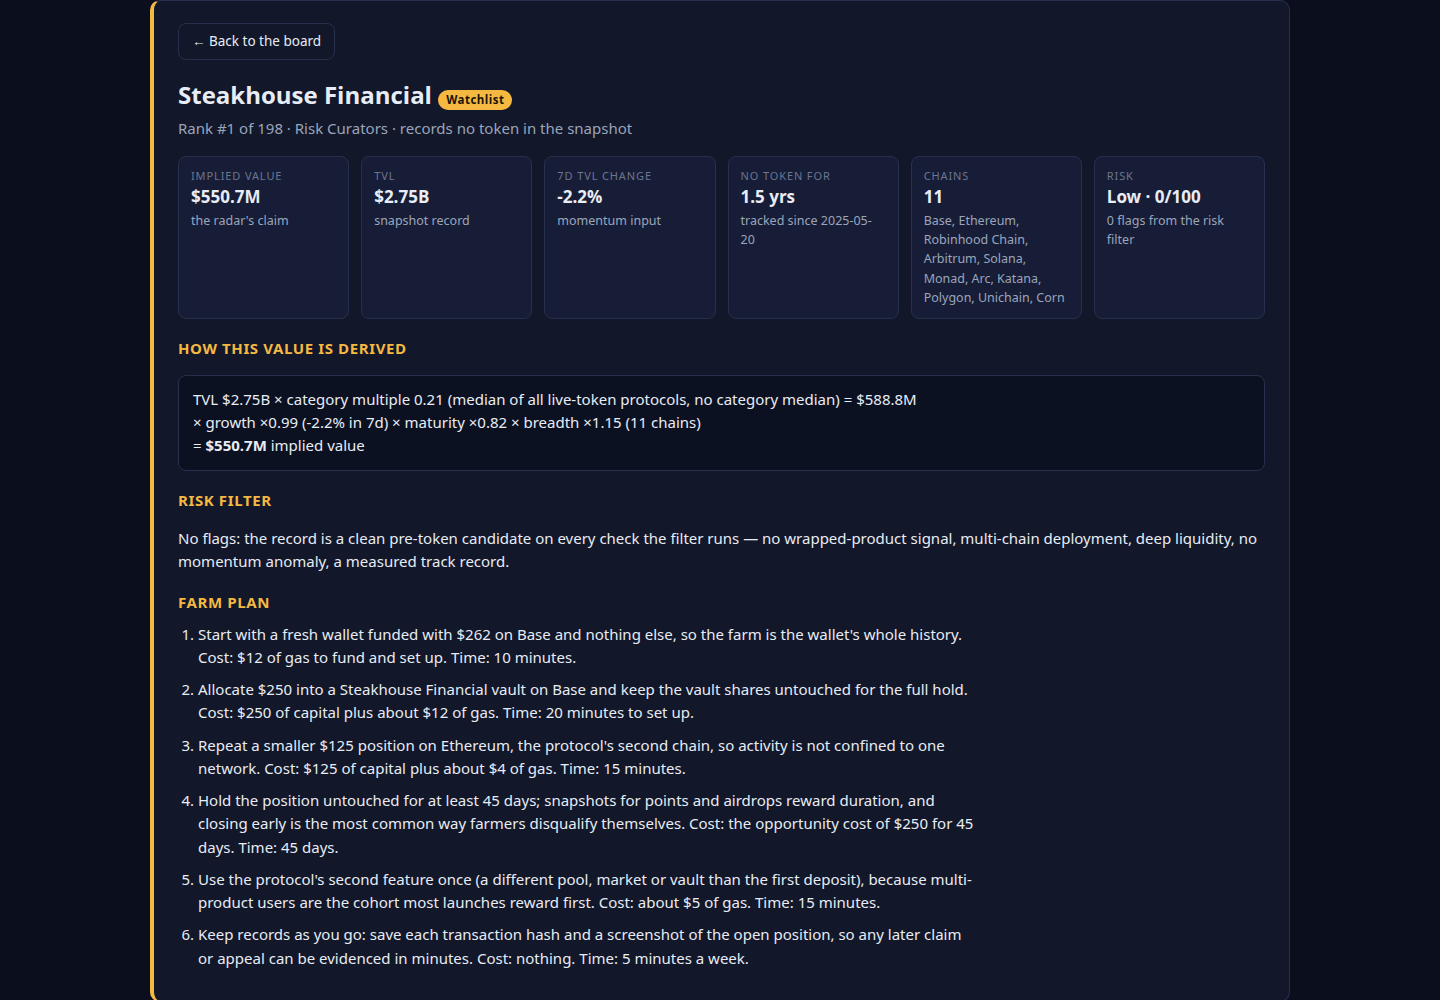
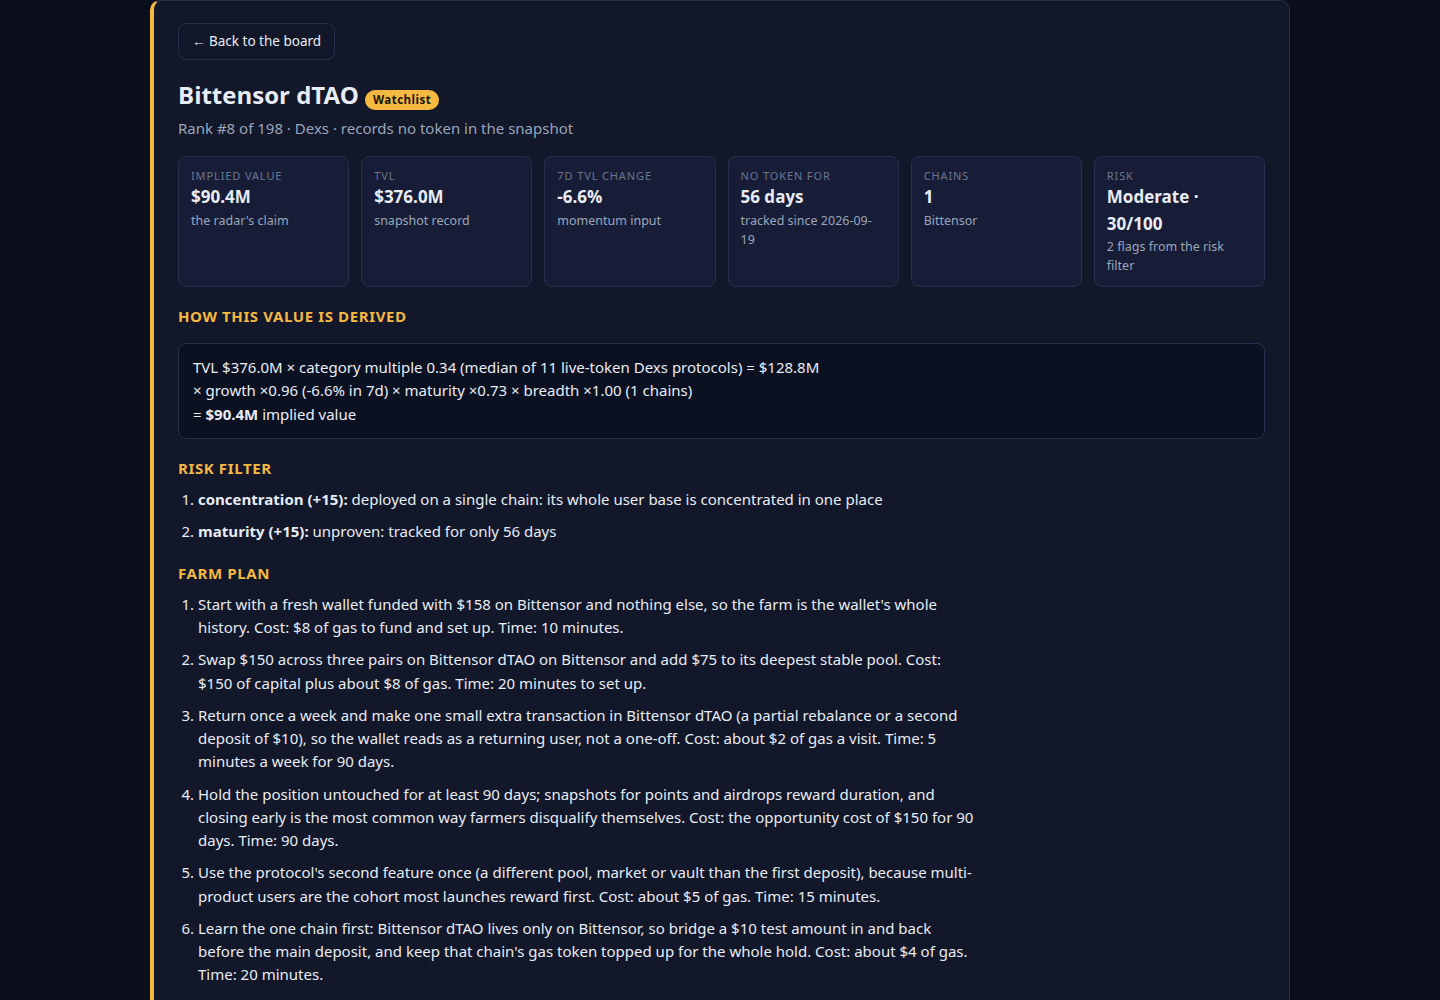
V3 (comp-calibrated-3): cap momentum credit at the risk filter's +60% parabolic line; unverified-momentum flag; seventh farm-plan step answering each protocol's own risk record; dashboard risk-tier filter and per-$1-TVL column; refreshed screenshots; CHANGELOG

diff --git a/lib/model.ts b/lib/model.ts
@@ -201,7 +201,11 @@ export function calibrate(snapshot: Snapshot): Calibration {
 export const WEIGHTS = {
   growth_weight: 0.6,
   growth_floor_pct: -50,
-  growth_cap_pct: 100,
+  // Momentum credit stops at +60%: the same line where the risk filter
+  // starts calling a rise parabolic. Past it the model pays no extra
+  // premium for a spike the filter flags as a pace that rarely holds
+  // (the snapshot holds a +4,448% week, a listing artifact, not demand).
+  growth_cap_pct: 60,
   maturity_base: 0.72,
   maturity_span: 0.28,
   maturity_days: 1460,
@@ -211,7 +215,7 @@ export const WEIGHTS = {
 } as const;
 
 /** The model's version label, printed on the dashboard. */
-export const MODEL_VERSION = 'comp-calibrated-2';
+export const MODEL_VERSION = 'comp-calibrated-3';
 
 /** How many board rows the radar carries: the watchlist plus the early field. */
 export const BOARD_ROWS = 320;
@@ -315,11 +319,34 @@ function coreAction(p: ProtocolRecord, capital: number, chain: string): string {
 }
 
 /**
- * The farm plan for one protocol: six concrete steps, each carrying its
- * cost and its time, derived from the protocol's own category, chains,
- * TVL and age. Nothing here names a protocol the snapshot does not.
+ * The plan's risk step: the one instruction that answers this protocol's
+ * own risk record, chosen in the order the filter weighs them — an
+ * outflow first, then a parabolic spike, thin liquidity, a single-chain
+ * deployment — and a monthly re-check of the record for a clean row.
+ * Every figure in it is the protocol's own, read from the snapshot.
  */
-export function farmPlan(p: ProtocolRecord, ageDays: number | null): string[] {
+function riskStepFor(p: ProtocolRecord, risk: RiskAssessment, capital: number, gas: number): string {
+  const flagged = (id: string, points?: number) =>
+    risk.flags.some((f) => f.id === id && (points === undefined || f.points === points));
+  const change = p.change_7d;
+  if (flagged('momentum') && change !== null && change <= -25)
+    return `Treat the outflow as the first fact: ${p.name}'s TVL fell ${Math.abs(change).toFixed(1)}% in the seven days to the snapshot, so commit only half the capital now and add the rest only after two weeks in which TVL has stopped falling. Cost: nothing beyond patience. Time: 10 minutes a week for two weeks.`;
+  if (flagged('momentum') && change !== null && change >= 60)
+    return `Scale in against the spike: ${p.name}'s TVL rose ${change.toFixed(1)}% in seven days, a pace that rarely holds, so split the deposit into two tranches a week apart and skip the second if TVL has fallen back by more than a fifth by then. Cost: about ${money(gas)} of extra gas. Time: 15 minutes, twice.`;
+  if (flagged('liquidity', 20))
+    return `Size for thin liquidity: with only ${money(p.tvl_usd)} of TVL behind it, keep the position at the ${money(capital)} planned here and use the deepest pool, so an exit never has to move the market against you. Cost: nothing. Time: 5 minutes checking pool depth first.`;
+  if (flagged('concentration'))
+    return `Learn the one chain first: ${p.name} lives only on ${p.chains[0] ?? 'one chain'}, so bridge a ${money(10)} test amount in and back before the main deposit, and keep that chain's gas token topped up for the whole hold. Cost: about ${money(4)} of gas. Time: 20 minutes.`;
+  return `Re-check the record monthly: confirm ${p.name} still records no token and its TVL has not fallen by more than a quarter from ${money(p.tvl_usd)}; if either has changed, close and reassess rather than farming on habit. Cost: nothing. Time: 10 minutes a month.`;
+}
+
+/**
+ * The farm plan for one protocol: seven concrete steps, each carrying
+ * its cost and its time, derived from the protocol's own category,
+ * chains, TVL, age and risk record. Nothing here names a protocol the
+ * snapshot does not.
+ */
+export function farmPlan(p: ProtocolRecord, ageDays: number | null, risk: RiskAssessment): string[] {
   const chain = p.chains[0] ?? 'its main chain';
   const capital = capitalFor(p.tvl_usd);
   const hold = holdDaysFor(ageDays);
@@ -341,6 +368,7 @@ export function farmPlan(p: ProtocolRecord, ageDays: number | null): string[] {
   steps.push(
     `Hold the position untouched for at least ${hold} days; snapshots for points and airdrops reward duration, and closing early is the most common way farmers disqualify themselves. Cost: the opportunity cost of ${money(capital)} for ${hold} days. Time: ${hold} days.`,
     `Use the protocol's second feature once (a different pool, market or vault than the first deposit), because multi-product users are the cohort most launches reward first. Cost: about ${money(5)} of gas. Time: 15 minutes.`,
+    riskStepFor(p, risk, capital, gas),
     `Keep records as you go: save each transaction hash and a screenshot of the open position, so any later claim or appeal can be evidenced in minutes. Cost: nothing. Time: 5 minutes a week.`,
   );
   return steps.map((s) => (s.length > 600 ? `${s.slice(0, 596)}...` : s));
@@ -390,30 +418,33 @@ export function buildBoard(snapshot: Snapshot): BoardRow[] {
   for (const s of early) chosen.set(s.protocol.slug, s.protocol);
   const scored = [...chosen.values()].map((p) => scoreProtocol(p, snapshot.as_of, calibration));
   scored.sort((a, b) => b.implied - a.implied || (a.protocol.slug < b.protocol.slug ? -1 : 1));
-  return scored.map((s, i) => ({
-    rank: i + 1,
-    slug: s.protocol.slug,
-    name: s.protocol.name,
-    category: s.protocol.category,
-    chains: s.protocol.chains,
-    tvl_usd: s.protocol.tvl_usd,
-    change_7d: s.protocol.change_7d,
-    listed_at: s.protocol.listed_at,
-    age_days: s.ageDays,
-    token_status: 'pre-token' as const,
-    on_watchlist: watchlist.has(s.protocol.slug),
-    implied_value_usd: s.implied,
-    model: {
-      base_multiple: round4(s.baseMultiple),
-      comps: s.comps,
-      growth_pct: s.growthPct,
-      growth_multiplier: round4(s.growthMult),
-      maturity_multiplier: round4(s.maturityMult),
-      breadth_multiplier: round4(s.breadthMult),
-    },
-    risk: assessRisk(s.protocol, snapshot.as_of),
-    farm_steps: farmPlan(s.protocol, s.ageDays),
-  }));
+  return scored.map((s, i) => {
+    const risk = assessRisk(s.protocol, snapshot.as_of);
+    return {
+      rank: i + 1,
+      slug: s.protocol.slug,
+      name: s.protocol.name,
+      category: s.protocol.category,
+      chains: s.protocol.chains,
+      tvl_usd: s.protocol.tvl_usd,
+      change_7d: s.protocol.change_7d,
+      listed_at: s.protocol.listed_at,
+      age_days: s.ageDays,
+      token_status: 'pre-token' as const,
+      on_watchlist: watchlist.has(s.protocol.slug),
+      implied_value_usd: s.implied,
+      model: {
+        base_multiple: round4(s.baseMultiple),
+        comps: s.comps,
+        growth_pct: s.growthPct,
+        growth_multiplier: round4(s.growthMult),
+        maturity_multiplier: round4(s.maturityMult),
+        breadth_multiplier: round4(s.breadthMult),
+      },
+      risk,
+      farm_steps: farmPlan(s.protocol, s.ageDays, risk),
+    };
+  });
 }
 
 /** The first gate problem with a board, or null when the board is valid. */

diff --git a/dashboard/app.js b/dashboard/app.js
@@ -45,7 +45,9 @@
   var catEl = document.getElementById('category');
   var chainEl = document.getElementById('chain');
   var scopeEl = document.getElementById('scope');
+  var riskEl = document.getElementById('risk');
   var sortEl = document.getElementById('sort');
+  var TIER_ORDER = { Low: 0, Moderate: 1, Elevated: 2, High: 3 };
 
   var categories = {};
   var chains = {};
@@ -67,6 +69,7 @@
       if (chainEl.value && r.chains.indexOf(chainEl.value) === -1) return false;
       if (scopeEl.value === 'watchlist' && !r.on_watchlist) return false;
       if (scopeEl.value === 'early' && r.on_watchlist) return false;
+      if (riskEl.value && TIER_ORDER[r.risk.tier] > TIER_ORDER[riskEl.value]) return false;
       if (q && r.name.toLowerCase().indexOf(q) === -1 && r.slug.indexOf(q) === -1) return false;
       return true;
     });
@@ -85,6 +88,7 @@
     countEl.textContent = 'Showing ' + rows.length + ' of ' + D.rows.length + ' ranked protocols. Select a row for its detail and farm plan.';
     var html = '<table><thead><tr>' +
       '<th>#</th><th>Protocol</th><th>Status</th><th>Risk</th><th class="num">Implied value</th>' +
+      '<th class="num hide-sm">Per $1 TVL</th>' +
       '<th class="num">TVL</th><th class="num">7d</th><th class="hide-sm">Category</th>' +
       '<th class="hide-sm">Chains</th><th class="num hide-sm">No token for</th></tr></thead><tbody>';
     rows.forEach(function (r) {
@@ -94,6 +98,7 @@
         '<td><span class="badge ' + (r.on_watchlist ? 'watch' : 'early') + '">' + (r.on_watchlist ? 'Watchlist' : 'Early radar') + '</span></td>' +
         '<td><span class="badge risk-' + r.risk.tier.toLowerCase() + '">' + r.risk.tier + ' ' + r.risk.score + '</span></td>' +
         '<td class="num"><strong>' + money(r.implied_value_usd) + '</strong></td>' +
+        '<td class="num hide-sm">×' + (r.tvl_usd > 0 ? (r.implied_value_usd / r.tvl_usd).toFixed(2) : '—') + '</td>' +
         '<td class="num">' + money(r.tvl_usd) + '</td>' +
         '<td class="num ' + (r.change_7d > 0 ? 'up' : r.change_7d < 0 ? 'down' : '') + '">' + pct(r.change_7d) + '</td>' +
         '<td class="hide-sm">' + esc(r.category || '—') + '</td>' +
@@ -157,7 +162,7 @@
   document.getElementById('method').innerHTML =
     '<h2>How the radar prices a launch that has not happened</h2>' +
     '<p>Start from the market, not from a guess. In this same snapshot, ' + 'the protocols whose token already trades show what a dollar of TVL is worth in each category: the radar takes the median market-cap/TVL ratio per category (global median ' + D.global_multiple.toFixed(2) + '×) and applies it to each pre-token protocol\'s TVL. It then adjusts for momentum (the 7-day TVL change, weighted ×' + D.weights.growth_weight + ', clamped between ' + D.weights.growth_floor_pct + '% and +' + D.weights.growth_cap_pct + '%), for maturity (a protocol that has run longer with no token earns up to ×' + (D.weights.maturity_base + D.weights.maturity_span).toFixed(2) + '), and for breadth (each extra chain adds ' + (D.weights.breadth_per_chain * 100) + '%). Protocols whose token already trades are never ranked: they are listed below at the market\'s own value. Model version ' + esc(D.model_version) + '.</p>' +
-    '<p>Every candidate also passes a risk filter, scored 0 to 100 from the record itself: a wrapped-product or authority signal (+35), a versioned pool (+25), thin liquidity under $10M TVL (+20), an outflow shock of −25% in a week (+20), single-chain concentration (+15), an unproven 90-day track record (+15), a parabolic +60% spike (+10) and shallow liquidity (+10). This board spreads ' + D.risk_tiers.Low + ' Low, ' + D.risk_tiers.Moderate + ' Moderate, ' + D.risk_tiers.Elevated + ' Elevated and ' + D.risk_tiers.High + ' High; the priority watch above is where high implied value meets Low or Moderate risk.</p>' +
+    '<p>Every candidate also passes a risk filter, scored 0 to 100 from the record itself: a wrapped-product or authority signal (+35), a versioned pool (+25), thin liquidity under $10M TVL (+20), an outflow shock of −25% in a week (+20), single-chain concentration (+15), an unproven 90-day track record (+15), a parabolic +60% spike (+10), no seven-day figure on record (+10, unverified momentum) and shallow liquidity (+10). This board spreads ' + D.risk_tiers.Low + ' Low, ' + D.risk_tiers.Moderate + ' Moderate, ' + D.risk_tiers.Elevated + ' Elevated and ' + D.risk_tiers.High + ' High; the priority watch above is where high implied value meets Low or Moderate risk.</p>' +
     '<table><thead><tr><th>Category</th><th class="num">Live comps</th><th class="num">Median value per $1 TVL</th></tr></thead><tbody>' + calibRows + '</tbody></table>';
 
   // --- live tokens ----------------------------------------------------
@@ -184,7 +189,7 @@
     }
   }
 
-  [qEl, catEl, chainEl, scopeEl, sortEl].forEach(function (el) {
+  [qEl, catEl, chainEl, scopeEl, riskEl, sortEl].forEach(function (el) {
     el.addEventListener('input', renderBoard);
     el.addEventListener('change', renderBoard);
   });

diff --git a/lib/risk.ts b/lib/risk.ts
@@ -19,7 +19,9 @@
 //   volume anomalies       -> the 7-day TVL change: a fall of 25% or
 //                             more is an outflow shock; a rise of 60%
 //                             or more in a week is a parabolic spike
-//                             that rarely holds.
+//                             that rarely holds; no change on record
+//                             is unverified momentum, flagged, never
+//                             scored as a flat week.
 //
 // Each flag adds fixed points; the total is the risk score, 0..100,
 // and the tier names the band it falls in. The same record always
@@ -85,9 +87,13 @@ export function assessRisk(p: ProtocolRecord, asOf: string): RiskAssessment {
   } else if (p.tvl_usd < 50_000_000) {
     add('liquidity', 10, 'shallow liquidity: under $50M of TVL behind the implied value');
   }
-  // Momentum anomalies in the 7-day TVL change.
-  const change = p.change_7d ?? 0;
-  if (change <= -25) {
+  // Momentum anomalies in the 7-day TVL change. An unreported change
+  // is not a flat week: the record carries no momentum to verify, and
+  // the filter says so instead of scoring the gap as calm.
+  const change = p.change_7d;
+  if (change === null) {
+    add('momentum', 10, 'no seven-day change on record: the momentum behind this candidate cannot be verified');
+  } else if (change <= -25) {
     add('momentum', 20, `outflow shock: TVL fell ${Math.abs(change).toFixed(1)}% in seven days`);
   } else if (change >= 60) {
     add('momentum', 10, `parabolic spike: TVL rose ${change.toFixed(1)}% in seven days, a pace that rarely holds`);

diff --git a/main.ts b/main.ts
@@ -81,12 +81,17 @@ export function summaryLine(data: RadarData): string {
   const topText = top === undefined ? 'no rows' : `${top.name} $${(top.implied_value_usd / 1e6).toFixed(1)}M`;
   const head =
     `Token Launch Radar ${data.as_of}: ${data.counts.board} pre-token protocols ranked, ` +
-    `${data.counts.watchlist} watchlist covered; top ${topText}`;
-  // Prefer the full line with the model named; drop segments whole
-  // rather than cutting a word in half, and only then trim to a word
-  // boundary.
-  let line = `${head}; model ${data.model_version}.`;
-  if (line.length > 140) line = `${head}.`;
+    `${data.counts.watchlist} watchlist covered`;
+  // Prefer the full line: risk scoring and the model both named. Drop
+  // whole segments in that order rather than cutting a word in half,
+  // and only then trim to a word boundary.
+  const candidates = [
+    `${head}, all risk-scored; top ${topText}; model ${data.model_version}.`,
+    `${head}, all risk-scored; top ${topText}.`,
+    `${head}; top ${topText}; model ${data.model_version}.`,
+    `${head}; top ${topText}.`,
+  ];
+  let line = candidates.find((c) => c.length <= 140) ?? candidates[candidates.length - 1]!;
   if (line.length > 140) {
     const cut = line.slice(0, 137);
     line = `${cut.slice(0, cut.lastIndexOf(' '))}...`;

diff --git a/dashboard/index.html b/dashboard/index.html
@@ -32,6 +32,15 @@
         <option value="early">Early radar only</option>
       </select>
     </label>
+    <label class="control">Risk at most
+      <select id="risk">
+        <option value="">Any risk tier</option>
+        <option value="Low">Low</option>
+        <option value="Moderate">Moderate</option>
+        <option value="Elevated">Elevated</option>
+        <option value="High">High</option>
+      </select>
+    </label>
     <label class="control">Sort by
       <select id="sort">
         <option value="rank">Rank (implied value)</option>

diff --git a/README.md b/README.md
@@ -4,7 +4,7 @@
 [![rank](https://make.fun/badge/token-radar-01/Mochiku444/makefun-token-launch-radar/rank.svg)](https://make.fun/bounty/token-radar-01/leaderboard?utm_source=github&utm_medium=readme&utm_campaign=token-radar-01)
 [![reward](https://make.fun/badge/token-radar-01/Mochiku444/makefun-token-launch-radar/reward.svg)](https://make.fun/bounty/token-radar-01?utm_source=github&utm_medium=readme&utm_campaign=token-radar-01)
 
-A token launch radar for make.fun's token-radar-01 bounty. The program (`main.ts`, Node 22, standard library only) reads the sealed DefiLlama snapshot of 758 protocols and ranks 198 that record no token — all 40 on the house watchlist plus 158 early finds — by an implied token value. The model is calibrated on the snapshot itself: the median market-cap/TVL ratio of each category's live-token protocols, adjusted for 7-day TVL momentum, for how long each protocol has run with no token, and for chain breadth. Wrapped, staked and bridged products of tokens that already trade (the WBTC trap) are screened out with the same rules the house watchlist uses. Every row carries a six-step farm plan with costs and times, and the static dashboard in `dashboard/` renders the board with search, category/chain filters, four sort orders, a per-protocol detail view showing the full value derivation, the calibration table, and the live-token set shown apart at market value.
+A token launch radar for make.fun's token-radar-01 bounty. The program (`main.ts`, Node 22, standard library only) reads the sealed DefiLlama snapshot of 758 protocols and ranks 198 that record no token — all 40 on the house watchlist plus 158 early finds — by an implied token value. The model is calibrated on the snapshot itself: the median market-cap/TVL ratio of each category's live-token protocols, adjusted for 7-day TVL momentum, for how long each protocol has run with no token, and for chain breadth. Wrapped, staked and bridged products of tokens that already trade (the WBTC trap) are screened out with the same rules the house watchlist uses. Every row carries a seven-step farm plan with costs and times — the seventh step answers the protocol's own risk record — and the static dashboard in `dashboard/` renders the board with search, category/chain/risk-tier filters, five sort orders, a per-protocol detail view showing the full value derivation, the calibration table, and the live-token set shown apart at market value.
 
 ## Run it
 
@@ -23,6 +23,7 @@ This entry was built by an AI agent in the open, and its make.fun submission car
 5. `lib/risk.ts` — the risk filter: authority (wrapped-product proxy), concentration, liquidity and momentum-anomaly scoring with a priority watch list.
 6. `screenshots/` — captured from the running dashboard with headless Chrome at 1440×1000: the board, a detail view, and a filtered view.
 7. Verified before submitting: two consecutive runs byte-identical, empty and malformed snapshots refused cleanly, and a secret scan over every tracked file and the full git history (no keys, no credentials — the signing keypair lives outside this repository and is never committed).
+8. V3 (`comp-calibrated-3`), prepared after the V2 dev grade: momentum credit now stops at +60%, the risk filter's own parabolic line, so the model no longer pays its maximum premium for a spike it flags as unsustainable (the snapshot holds a +4,448% week); a record with no seven-day figure earns an unverified-momentum flag instead of being scored as a flat week; every farm plan gains a seventh step answering the protocol's own risk flags; the dashboard gains a risk-tier filter and a per-$1-of-TVL column so the applied multiple reads at a glance; screenshots re-captured from the updated page. Prepared only — not submitted; V2 remains the counted entry until the entrant decides otherwise.
 
 No API keys or secrets exist in this repository or its history; the program itself needs none — it reads only the sealed snapshot and the standard library.
 

diff --git a/CHANGELOG.md b/CHANGELOG.md
@@ -1,0 +1,42 @@
+# Changelog
+
+## V3 — model comp-calibrated-3 (2026-11-28, prepared, not submitted)
+
+- **Model:** the 7-day momentum credit is capped at +60% (`growth_cap_pct`
+  100 → 60), the same line where the risk filter starts calling a rise
+  parabolic. V2 paid its maximum growth multiplier (×1.6) to six board
+  rows at or past that line, including a +4,448% week that is a listing
+  artifact, not demand. Values below +60% are unchanged.
+- **Risk filter:** a protocol whose record carries no seven-day change
+  now earns an unverified-momentum flag (+10) instead of being scored
+  as a flat week (2 of the 198 board rows).
+- **Farm plans:** every plan gains a seventh step that answers the
+  protocol's own risk record — halve-and-wait on an outflow shock,
+  tranche against a parabolic spike, size down for thin liquidity,
+  learn a single chain first, or a monthly re-check for a clean row —
+  each with its cost and time like the other six.
+- **Dashboard:** a risk-tier filter (show at most Low / Moderate /
+  Elevated / High) beside the existing search, category, chain and
+  scope filters; a "Per $1 TVL" column showing the multiple the model
+  actually applied to each row; the method text now lists the
+  unverified-momentum flag so the page and `lib/risk.ts` agree.
+- **Summary:** `entry.txt` now names the risk scoring as well as the
+  board and the top row, still inside the 1–140 character gate.
+- **Screenshots:** re-captured from the updated dashboard (board,
+  detail of a flagged top-10 row, filtered view using the new
+  risk filter).
+
+## V2 — model comp-calibrated-2 (2026-11-26, submitted)
+
+- Risk filter (`lib/risk.ts`): authority (wrapped-product proxy),
+  concentration, liquidity and momentum-anomaly scoring, a priority
+  watch list, and risk wired into the board, the dashboard and
+  `state.json`; the one-line summary in `entry.txt`; README build log.
+
+## V1 (2026-11-26, submitted, superseded by V2 the same day)
+
+- Comp-calibrated implied-value model (per-category median mcap/TVL
+  from the snapshot's own live-token protocols, adjusted for 7-day
+  momentum, age and chain breadth), wrapped-product screen mirroring
+  the house watchlist, 198-row board with six-step farm plans, and a
+  filterable dashboard with per-protocol detail views.
